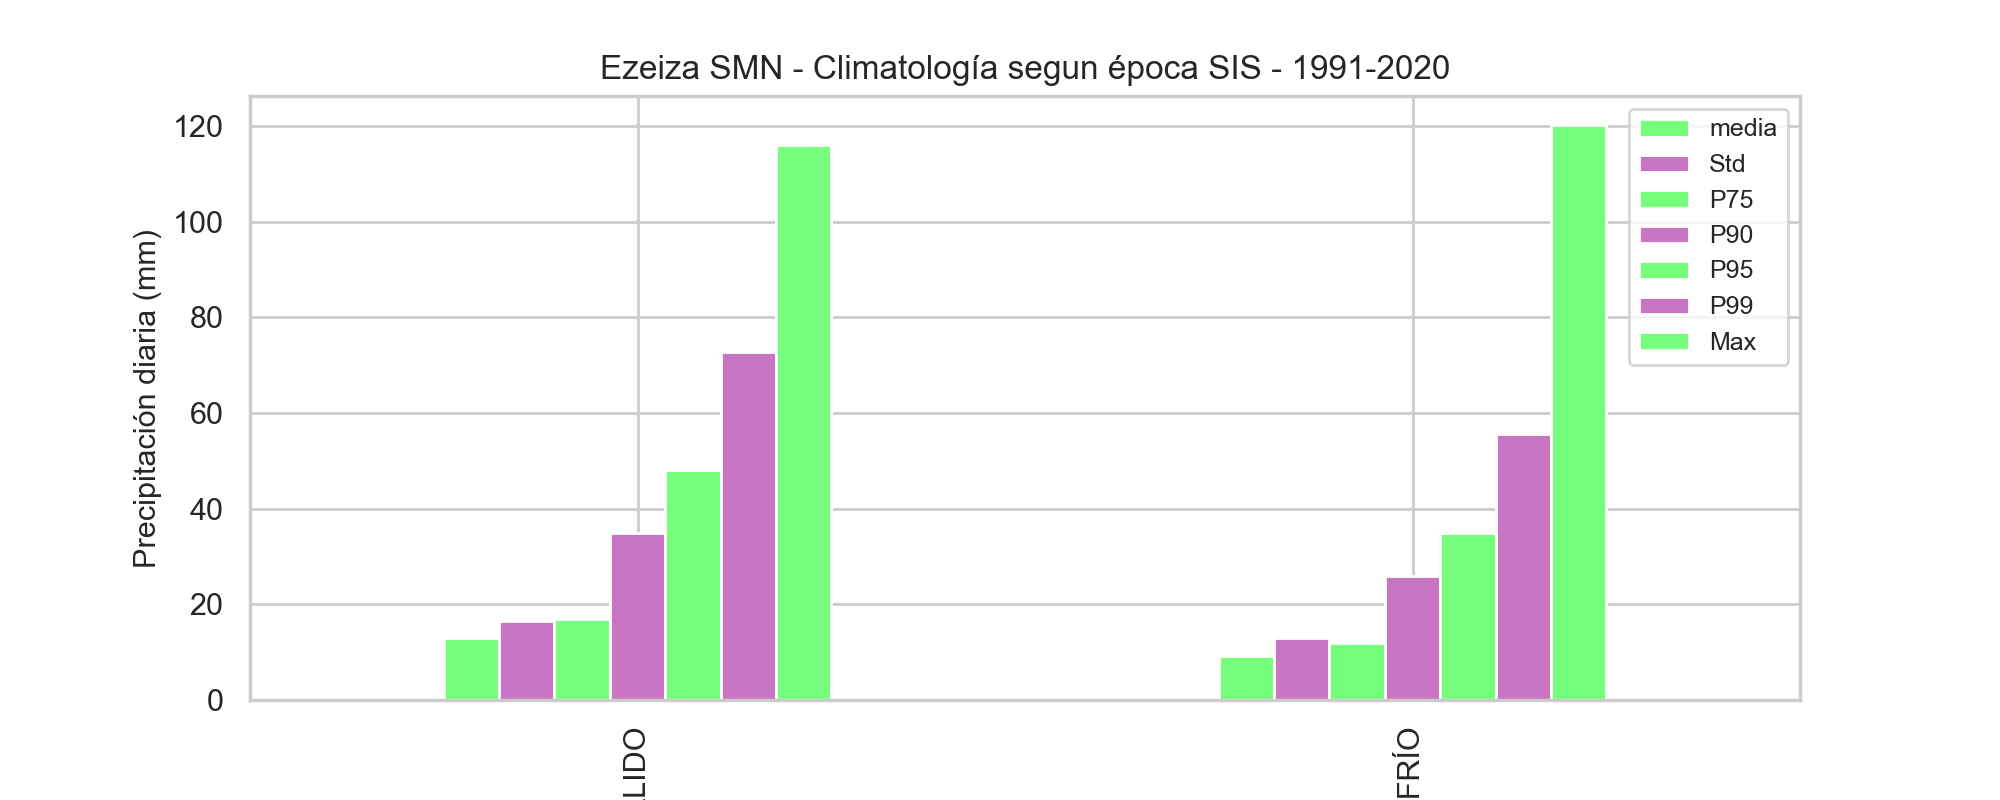
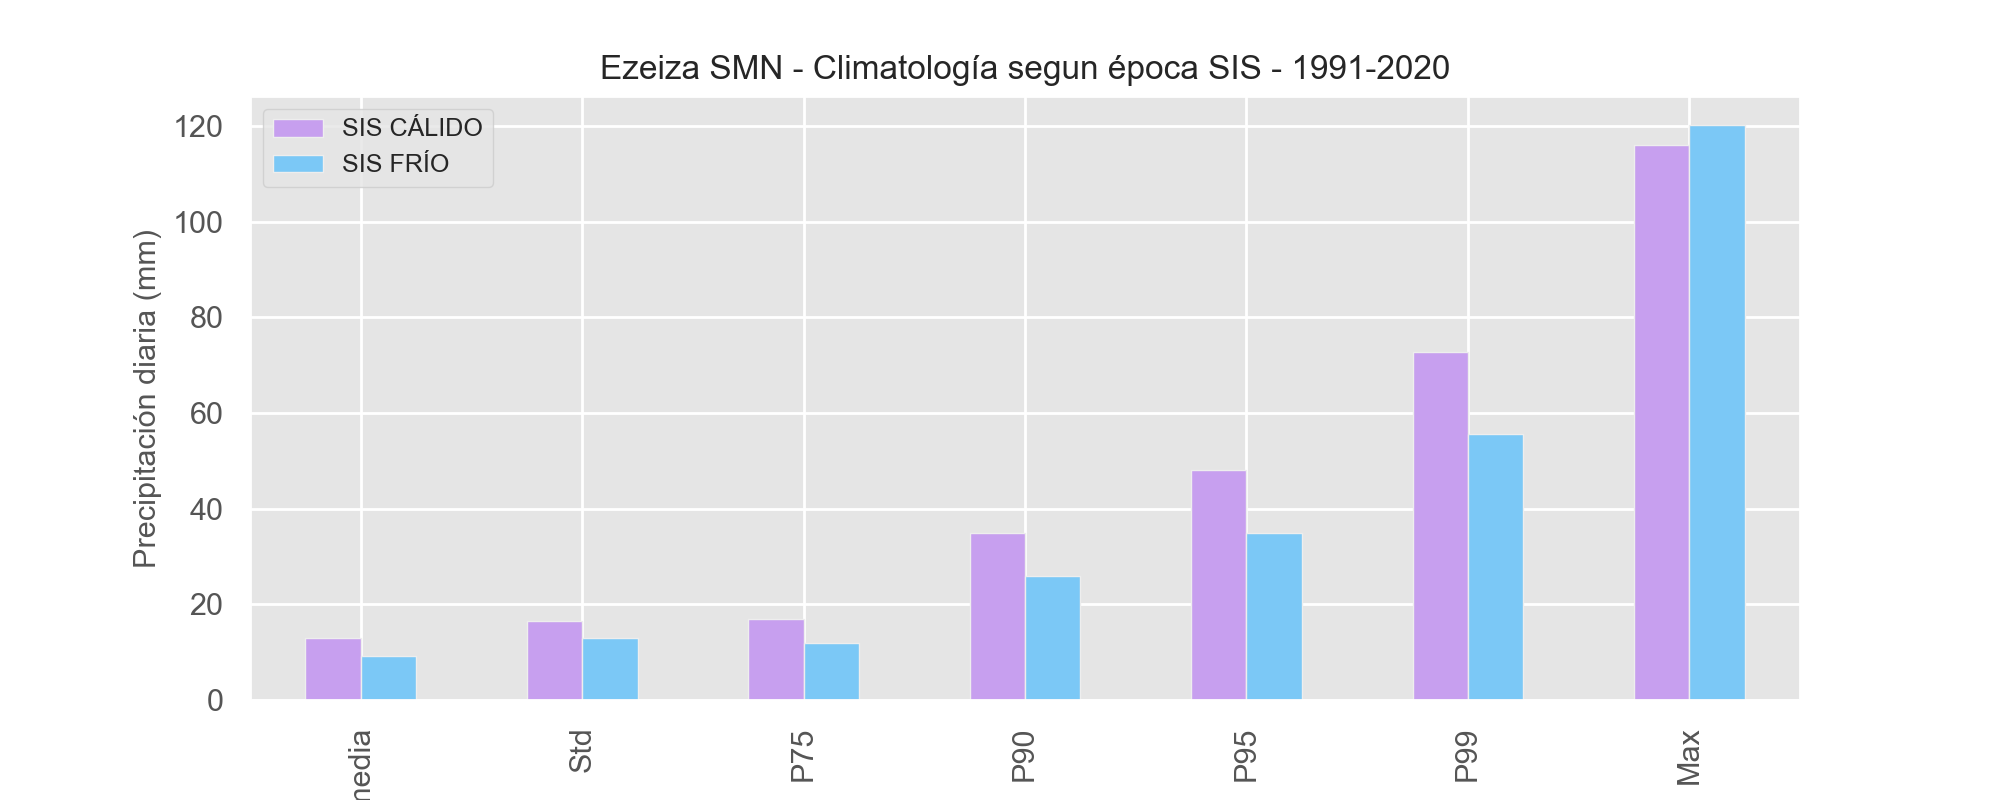
actualizaciones codigo y figuras

diff --git a/codigo_pp_SMN_.py b/codigo_pp_SMN_.py
@@ -490,10 +490,9 @@ fig.suptitle('Ezeiza SMN - Valor medio de precipitación mensual\n 1991-2020')
 
 
 clrs = ['lightblue' if (4< x < 10) else 'pink' for x in meses_prom.index ]
-6555555555555555550prom=sns.barplot(ax=ax, x=meses_prom.index, y=meses_prom['prcp'], palette=clrs, linewidth=5)9
-P¨´¨´¨´¨´¨´´'prom.set(xlabel ="Meses")#, title ='some title')
-prom.set_ytic+´´´´´´´´´´´´´´´´´´{
-    .........................................................................................................................................................................................................................................................................................................................................................................................................................................................................................................................................................................................................................................................................................................................................................................................................................................................................................................................................................................................................................................................................................................................................................................................................................................................................................................................................................................................................................................................................................................................................................................................................................................................................................................................................................................................................................................................................................................................................................................-+s(range(1, 125, 20))
+prom=sns.barplot(ax=ax, x=meses_prom.index, y=meses_prom['prcp'], palette=clrs, linewidth=5)
+prom.set(xlabel ="Meses")
+prom.set_yticks(range(1, 125, 20))
 prom.set_ylabel("Precipitación acumulada promedio (mm)", fontsize= 10)
 
 
@@ -545,13 +544,17 @@ data_clima_sis={'epoca_sis':['SIS CÁLIDO', 'SIS FRÍO'], 'media':[12.9, 9.1],
 
 climatologia_epoca_sis=pd.DataFrame(data_clima_sis)
 climatologia_epoca_sis= climatologia_epoca_sis.set_index('epoca_sis')
+climatologia_epoca_sis=climatologia_epoca_sis.transpose()
+climatologia_epoca_sis.to_excel("plot/tabla_climatologiapp_epoca_sis.xlsx")
 
+plt.style.use("ggplot")
 columnas=climatologia_epoca_sis.columns
 num_barras= len(columnas)
 ancho_barras=0.8
 indice=climatologia_epoca_sis.index
-colores=['#AAA662', '#C79FEF', '#7BC8F6', '#76FF7B', '#C875C4', '#BFBF00', '#008000']
+colores=['#C79FEF', '#7BC8F6']
 climatologia_epoca_sis.plot(kind='bar', figsize=(10, 4), color=colores)
+
 #configurar l titulo y las etiquetas de los ejes
 plt.title('Ezeiza SMN - Climatología segun época SIS - 1991-2020', fontsize=12)
 plt.xlabel('Época SIS', fontsize=14)
@@ -560,6 +563,25 @@ plt.ylabel('Precipitación diaria (mm)', fontsize=11)
 plt.legend(columnas, fontsize=9)
 plt.savefig('plot/Climatologia_epoca_sis.png', dpi=200)
 plt.show()
+#%%
+#Percentil 75 para cada mes diferenciando por criterio sis
+
+p75_frio=meses_sis_frio.groupby(meses_sis_frio['Fecha'].dt.month).quantile(0.75).round(1)
+p75_frio=list(p75_frio['prcp'])
+print(p75_frio)
+p75_calido=meses_sis_calido.groupby(meses_sis_calido['Fecha'].dt.month).quantile(0.75).round(1)
+p75_calido=list(p75_calido['prcp'])
+print(p75_calido)
+
+meses_calidos=[10, 11, 12, 1, 2, 3, 4]
+datos_filtrados_calido=[]     
+for i in range(len(meses_calidos)):
+    datos_filtrados_calido.append(meses_sis_calido[(meses_sis_calido.index.month==meses_calidos[i])
+                                                   & (meses_sis_calido.prcp>=p75_calido[i])])
+ 
+datos_filtrados_calido2= pd.concat(datos_filtrados_calido)
+
+#nuevo=meses_sis_calido[(meses_sis_calido.index.month==10) & (meses_sis_calido.prcp>=15.9)]
 #%%
 #plotting ACUMULADOS MENSUALES   ----> ACOMODAR EL EJE  X
 #podri servir para comparar con el promedio mensual de pp acumulada para 
@@ -722,7 +744,7 @@ from pandas.plotting import register_matplotlib_converters
 register_matplotlib_converters()
 
 # Use white grid plot background from seaborn
-sbn.set(font_scale=1.0, style="whitegrid")
+sns.set(font_scale=1.0, style="whitegrid")
 
 fig, ax = plt.subplots(figsize=(15, 5))
 ax.bar(eje_x, valores_extremos['prcp'], width= 0.4, color='mediumslateblue')
@@ -749,7 +771,7 @@ BOXPLOT mensual
 
 f_dfclima['Mes']=f_dfclima.index.month  
 fig, ax = plt.subplots(figsize=(14,9), dpi=72)
-sbn.boxplot(data=f_dfclima,x='Mes',y='prcp', ax=ax)
+sns.boxplot(data=f_dfclima,x='Mes',y='prcp', ax=ax)
 plt.savefig('estacionalidad_anual.png', dpi=300)
 plt.show()
 
@@ -783,21 +805,21 @@ timeend
 '''
 
 #vuelgo a agregar una columna con solo los meses sacada del indice, pero ahora en el df mes (antes lo hice en el f_df)
-               
-medias_mensuales = acum_mes.groupby(acum_mes['Mes']).mean()
+acum_mes['Mes'] = acum_mes.index.month 
+#medias_mensuales = acum_mes.groupby(acum_mes['Mes']).mean()
 #?
-fig, ax = plt.subplots(figsize=(14,9), dpi=120)
-plt.title("Promedios mensuales de pecipitación", fontweight= 'bold', fontsize=16)
-plt.bar(medias_mensuales.index, medias_mensuales['prcp'])
+#fig, ax = plt.subplots(figsize=(14,9), dpi=120)
+#plt.title("Promedios mensuales de pecipitación", fontweight= 'bold', fontsize=16)
+#plt.bar(medias_mensuales.index, medias_mensuales['prcp'])
 
-                
-acum_mes['Mes'] = acum_mes.index.month   
+   
 fig, ax = plt.subplots(figsize=(16,8), dpi=120)
+colores=['lightblue' if (4<x<10) else 'pink' for x in acum_mes.Mes]
 plt.title("Ezeiza SMN - Precipitación acumulada mensual\nPeríodo 1991-2020", fontweight= 'bold', fontsize=16)
-sbn.boxplot(data=acum_mes, x='Mes', y='prcp', ax=ax, linewidth= 1.7, 
+sns.boxplot(data=acum_mes, x='Mes', y='prcp', ax=ax, linewidth= 1.7, palette=colores,
             flierprops={"marker": "x"})
 plt.ylabel("Precipitación (mm)", fontsize=16)
-plt.savefig('boxplot_acum_mensual.png', dpi=300)
+plt.savefig('plot/boxplot_acum_mensual.png', dpi=300)
 ax.tick_params(axis='both',labelsize=14)
 plt.show()
 
@@ -806,7 +828,7 @@ prom_enero=acum_mes(acum_mes['Mes']==1).mean()
 
 prom_mensual=pd.DataFrame(clima.prcp.resample('M').mean())
 prom_mensual['Mes'] = prom_mensual.index.month 
-sbn.barplot(x=Mes, y=prcp, data=prom_mensual)
+sns.barplot(x=Mes, y=prcp, data=prom_mensual)
 #%%
 #cuando tengo mas de un año, agrupo por mes independientemente del año y ploteo
 clima['fecha'].dt.month
